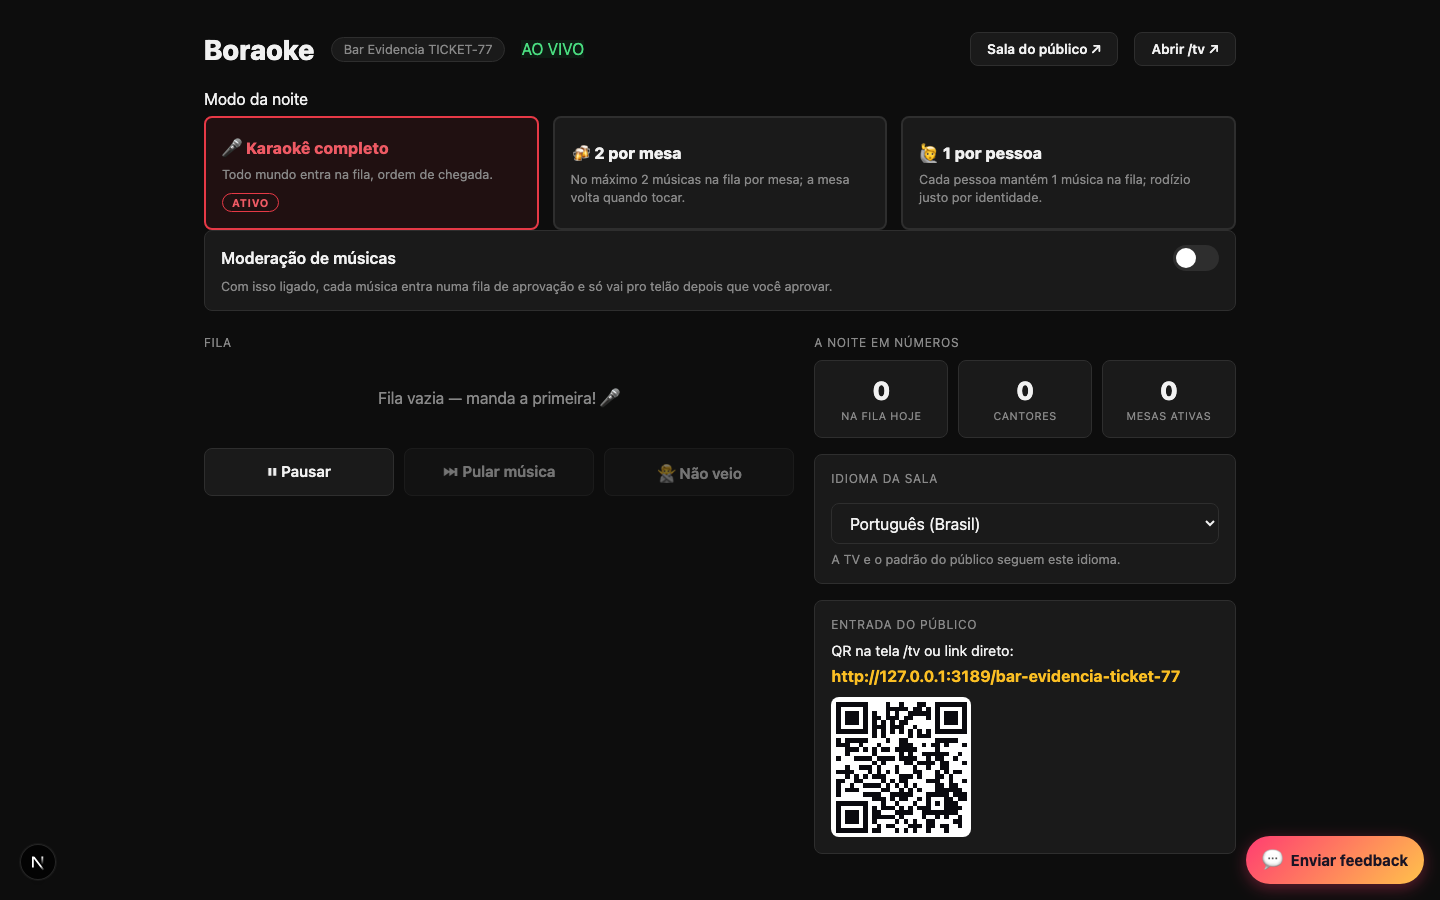
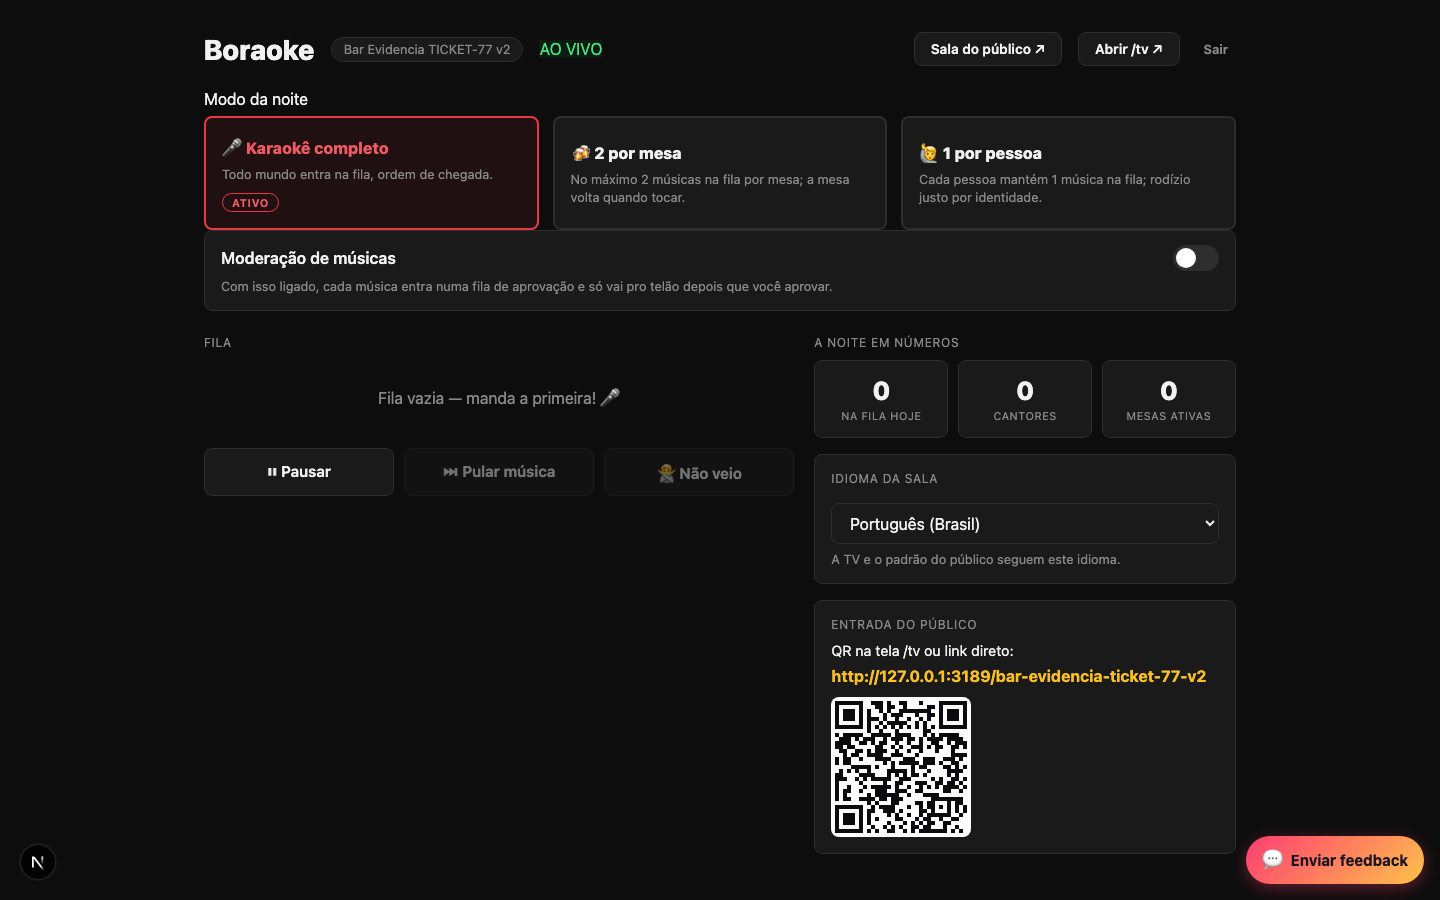
TICKET-77: add host logout control to the admin header
Blocking sibling PR #53 (TICKET-76, rolling 30-day session): POST
/api/host/session had zero UI callers. Adds a muted "Sair" control,
confirm-gated (reuses the existing Remover confirm/cancel pattern, no new
CSS/i18n beyond one new .logoutBtn class), that calls the existing
room-scoped logout endpoint and only flips the UI to the login gate on a
genuine res.ok. Verified on the wire: GET /api/host/session goes 200 -> 401
across confirm.

New e2e coverage: absent-on-gate, wire-verified clear (200 pre-confirm ->
200 pre-POST -> 401 post-confirm), and a negative control that stubs the
POST to fail and proves the res.ok gating is load-bearing (mutation-tested:
stripping the gate makes both new tests fail).

Opus Reviewer APPROVE (work/reports/review/TICKET-77-review.md) — full
re-review of both the analytics link and this logout control together, no
scope violations, no auth weakening, negative control confirmed to have
teeth via mutation testing.

Claude-Session: https://claude.ai/code/session_01YS9NhKYBXgzfASTm94t3Si

diff --git a/e2e/render-and-links.spec.ts b/e2e/render-and-links.spec.ts
@@ -317,6 +317,85 @@ test("/[room]/admin: HOST_TOKEN-authed session (default room) shows the Analytic
   await expect(analyticsLink).toHaveAttribute("href", "/admin/analytics");
 });
 
+test("/[room]/admin: logout control is absent on the login gate (unauthenticated)", async ({ page }) => {
+  // TICKET-77 (host logout): a real dashboard control cannot render before
+  // the dashboard itself does — the gate and the dashboard are mutually
+  // exclusive branches in AdminRoom. Pin that explicitly rather than assume it.
+  await page.context().clearCookies();
+  const { id } = await createRoom(page, "Bar Logout Gate");
+  await page.goto(`/${id}/admin`);
+  await expect(page.getByLabel(/código do host/i)).toBeVisible();
+  await expect(page.getByTestId("admin-logout-button")).toHaveCount(0);
+});
+
+test("/[room]/admin: logout control clears the session on the wire (confirm → 401 on re-probe)", async ({ page }) => {
+  // TICKET-77 (host logout, blocking sibling PR#53/TICKET-76's rolling
+  // 30-day session window): POST /api/host/session had zero callers anywhere
+  // in the UI before this. Verify on the wire — not by trusting the client
+  // state flip — that a session genuinely dies server-side.
+  await page.context().clearCookies();
+  const { id, hostCode } = await createRoom(page, "Bar Logout Wire");
+  await page.goto(`/${id}/admin`);
+  const token = page.getByLabel(/código do host/i);
+  await token.fill(hostCode);
+  await page.getByRole("button", { name: /^entrar$/i }).click();
+  await expect(page.getByRole("button", { name: /pausar|retomar/i })).toBeVisible();
+
+  // Sanity: session is genuinely live before we touch logout.
+  const preRes = await page.request.get(`/api/host/session?room=${id}`);
+  expect(preRes.status()).toBe(200);
+
+  // Meta-action is confirm-gated (shared/venue-tablet safety) — clicking the
+  // primary control must not immediately end the session.
+  const logoutBtn = page.getByTestId("admin-logout-button");
+  await expect(logoutBtn).toBeVisible();
+  await logoutBtn.click();
+  const confirmGroup = page.getByTestId("admin-logout-confirm");
+  await expect(confirmGroup).toBeVisible();
+  // Pre-confirm: session must still be untouched.
+  expect((await page.request.get(`/api/host/session?room=${id}`)).status()).toBe(200);
+
+  await confirmGroup.getByRole("button", { name: /^confirmar$/i }).click();
+
+  // Client flips back to the login gate...
+  await expect(token).toBeVisible();
+  // ...and the session is genuinely dead server-side, not just hidden in the UI.
+  const postRes = await page.request.get(`/api/host/session?room=${id}`);
+  expect(postRes.status()).toBe(401);
+});
+
+test("/[room]/admin: logout negative control — a failed clear leaves the host authed", async ({ page }) => {
+  // TICKET-77: proves the 401-on-wire assertion above actually has teeth. If
+  // POST /api/host/session fails, the UI must NOT falsely claim the host is
+  // logged out, and the session must remain genuinely live — this is the
+  // negative control the ticket asked for (stub the POST, confirm the
+  // clearing assertion would catch a broken implementation).
+  await page.context().clearCookies();
+  const { id, hostCode } = await createRoom(page, "Bar Logout Negative");
+  await page.goto(`/${id}/admin`);
+  const token = page.getByLabel(/código do host/i);
+  await token.fill(hostCode);
+  await page.getByRole("button", { name: /^entrar$/i }).click();
+  await expect(page.getByRole("button", { name: /pausar|retomar/i })).toBeVisible();
+
+  await page.route("**/api/host/session*", (route) => {
+    if (route.request().method() === "POST") {
+      return route.fulfill({ status: 500, body: "{}" });
+    }
+    return route.continue();
+  });
+
+  await page.getByTestId("admin-logout-button").click();
+  await page.getByTestId("admin-logout-confirm").getByRole("button", { name: /^confirmar$/i }).click();
+
+  // The stubbed POST failed, so the dashboard must still be showing — no
+  // false "logged out" claim — and, unrouted, the real session is still live.
+  await expect(page.getByRole("button", { name: /pausar|retomar/i })).toBeVisible();
+  await page.unroute("**/api/host/session*");
+  const stillLiveRes = await page.request.get(`/api/host/session?room=${id}`);
+  expect(stillLiveRes.status()).toBe(200);
+});
+
 test("legacy /admin and /tv redirect into the default room (no dead routes)", async ({ page }) => {
   await page.goto("/admin");
   await expect(page).toHaveURL(/\/default\/admin$/);

diff --git a/app/(patron)/[room]/admin/AdminRoom.tsx b/app/(patron)/[room]/admin/AdminRoom.tsx
@@ -78,6 +78,13 @@ export default function AdminRoom({
   // `checkSession` above, and it only ever flips the link on — never blocks
   // or delays the dashboard, and a failure just leaves the link hidden.
   const [analyticsAllowed, setAnalyticsAllowed] = useState(false);
+  // TICKET-77 (host logout): no logout UI exists anywhere today —
+  // POST /api/host/session (the logout endpoint, see app/api/host/session/route.ts)
+  // has zero callers in app/ or components/. Landing this alongside the
+  // rolling 30-day session window (TICKET-76) so a host on a shared venue
+  // tablet has a way to end a session deliberately.
+  const [confirmingLogout, setConfirmingLogout] = useState(false);
+  const [loggingOut, setLoggingOut] = useState(false);
 
   const roomQuery = `?room=${encodeURIComponent(roomId)}`;
 
@@ -184,6 +191,26 @@ export default function AdminRoom({
       setLoginError(tCommon("networkError"));
     } finally {
       setLoggingIn(false);
+    }
+  }
+
+  // TICKET-77: end this room's host session on demand (POST /api/host/session
+  // clears the room-scoped cookie server-side, mirroring the existing GET
+  // probe's ?room= scoping). Only flips the UI back to the login gate on a
+  // confirmed 200 — a network hiccup leaves the host authed client-side
+  // rather than falsely claiming they're logged out while the cookie lingers.
+  async function handleLogout() {
+    setLoggingOut(true);
+    try {
+      const res = await fetch(`/api/host/session${roomQuery}`, { method: "POST" });
+      if (res.ok) {
+        setAuth("gate");
+      }
+    } catch {
+      // network hiccup — stay authed; host can retry
+    } finally {
+      setLoggingOut(false);
+      setConfirmingLogout(false);
     }
   }
 
@@ -391,6 +418,44 @@ export default function AdminRoom({
           >
             Analytics
           </a>
+        )}
+        {/* TICKET-77: host logout. Visually secondary (muted text button, not
+            a filled pill like the links above) — this is a meta-action, not
+            something a host should fat-finger mid-service. Confirm-before-act
+            (same two-step pattern as "Remover" on a queue row, styles.confirm)
+            because ending the session is disruptive on a shared venue tablet:
+            the host would need to re-enter their code to get back in. "Sair"
+            is deliberately NOT localised — same constraint as Analytics above
+            (a sibling agent owns messages/*.json this cycle), and "Sair" is
+            the plain pt-BR word regardless of the room-language selector. */}
+        {confirmingLogout ? (
+          <span className={styles.confirm} data-testid="admin-logout-confirm">
+            <button
+              type="button"
+              className={styles.confirmYes}
+              disabled={loggingOut}
+              onClick={handleLogout}
+            >
+              {t("confirm")}
+            </button>
+            <button
+              type="button"
+              className={styles.confirmNo}
+              disabled={loggingOut}
+              onClick={() => setConfirmingLogout(false)}
+            >
+              {t("cancel")}
+            </button>
+          </span>
+        ) : (
+          <button
+            type="button"
+            className={styles.logoutBtn}
+            data-testid="admin-logout-button"
+            onClick={() => setConfirmingLogout(true)}
+          >
+            Sair
+          </button>
         )}
       </header>
 

diff --git a/app/(patron)/[room]/admin/admin.module.css b/app/(patron)/[room]/admin/admin.module.css
@@ -49,6 +49,19 @@
   font-weight: 600;
 }
 .tvLink:hover { border-color: var(--accent); text-decoration: none; }
+/* TICKET-77: host logout — deliberately muted/text-only (not a filled .tvLink
+   pill) so it reads as a secondary meta-action next to the primary header
+   links, not something to fat-finger mid-service. */
+.logoutBtn {
+  background: none;
+  border: 0;
+  color: var(--text-muted);
+  font-size: 0.8rem;
+  font-weight: 600;
+  padding: 6px 8px;
+  cursor: pointer;
+}
+.logoutBtn:hover { color: var(--text); text-decoration: underline; }
 
 .label {
   display: block;

diff --git a/work/tickets/TICKET-77-analytics-discoverability.md b/work/tickets/TICKET-77-analytics-discoverability.md
@@ -1,6 +1,6 @@
 ---
 ticket: TICKET-77
-title: Surface the analytics link in the admin header (authorised hosts only)
+title: Surface the analytics link in the admin header (authorised hosts only) + host logout control
 status: in-review
 ---
 
@@ -40,6 +40,41 @@ that would 401 them.
 - Link is a plain `<a>`, keyboard-reachable, using the same focus/hover
   affordances as the sibling header links.
 
+## Addendum — host logout control (added mid-cycle, blocking sibling PR)
+
+Sibling PR #53 (TICKET-76) raises the host session from 12h to a rolling
+30-day window. Its own security review found `POST /api/host/session` (the
+logout endpoint) had **zero callers anywhere in `app/` or `components/`** —
+no logout UI existed at all — and the roll is partly driven by the public
+landing page, so a shared venue tablet that keeps visiting boraoke.com keeps
+re-arming the window indefinitely. A logout control is the mitigation PR#53
+was waiting on.
+
+Added to the same admin header (`AdminRoom.tsx`):
+
+- A muted, text-only "Sair" button (`.logoutBtn`, new CSS) — deliberately NOT
+  styled like the `.tvLink` pills, so it reads as a secondary meta-action, not
+  something to fat-finger mid-service.
+- Confirm-before-act: clicking "Sair" reveals the same two-step
+  confirm/cancel pattern already used for "Remover" on a queue row
+  (`styles.confirm`/`confirmYes`/`confirmNo`, reusing the existing `t("confirm")`/
+  `t("cancel")` i18n keys — no new translation needed). Justification: ending
+  a session is disruptive on a shared venue tablet (re-entry requires the host
+  code), so a single accidental click should not do it.
+- On confirm, `POST /api/host/session?room=<roomId>` (the room-scoped variant
+  of the existing endpoint) is called; the UI only flips back to the login
+  gate when the response is genuinely `res.ok` — a network failure leaves the
+  host client-side-authed rather than falsely claiming logout succeeded.
+- Label `"Sair"` is hardcoded, not localised — same constraint and rationale
+  as "Analytics" (sibling agent owns `messages/*.json` this cycle).
+- Verified **on the wire**, not just in the client: `GET /api/host/session`
+  returns 200 before confirm and 401 after — see
+  `work/evidence/TICKET-77/after-logout-gate-1440.png` and the e2e test
+  `logout control clears the session on the wire`.
+- Negative control added (`logout negative control`): stubs the POST to fail
+  and asserts the dashboard stays up and the real session probe still 200s —
+  proves the res.ok gating actually matters, not just that happy-path works.
+
 ## Out of scope (flagged, not implemented)
 
 The real product gap: venue hosts have no analytics of their own — the
@@ -66,7 +101,12 @@ separately as a follow-up ticket. Did not touch `app/admin/analytics/**`,
   - `/[room]/admin: HOST_TOKEN-authed session (default room) shows the
     Analytics link` — asserts the link is present with `href="/admin/analytics"`
     once the `default` room's HOST_TOKEN session is live.
-- Evidence: `work/evidence/TICKET-77/{authorised,unauthorised}-{1440,390}.png`,
-  captured with Playwright directly against `npx next dev -p 3189`. The
-  capture script asserted `getByTestId("admin-analytics-link")` count is 0 in
-  the unauthorised state before taking the screenshot.
+- Evidence: `work/evidence/TICKET-77/{authorised,unauthorised}-{1440,390}.png`
+  plus `logout-confirm-1440.png` and `after-logout-gate-1440.png`, captured
+  with Playwright directly against `npx next dev -p 3189`. The capture script
+  asserted `getByTestId("admin-analytics-link")` count is 0 in the
+  unauthorised state, and independently probed `GET /api/host/session` on the
+  wire (200 pre-logout, 401 post-logout) before taking screenshots.
+- Full e2e re-run after the logout addition: 81/81 passed (3.6m), including
+  the 3 new logout tests (absent-on-gate, wire-verified clear, negative
+  control).
